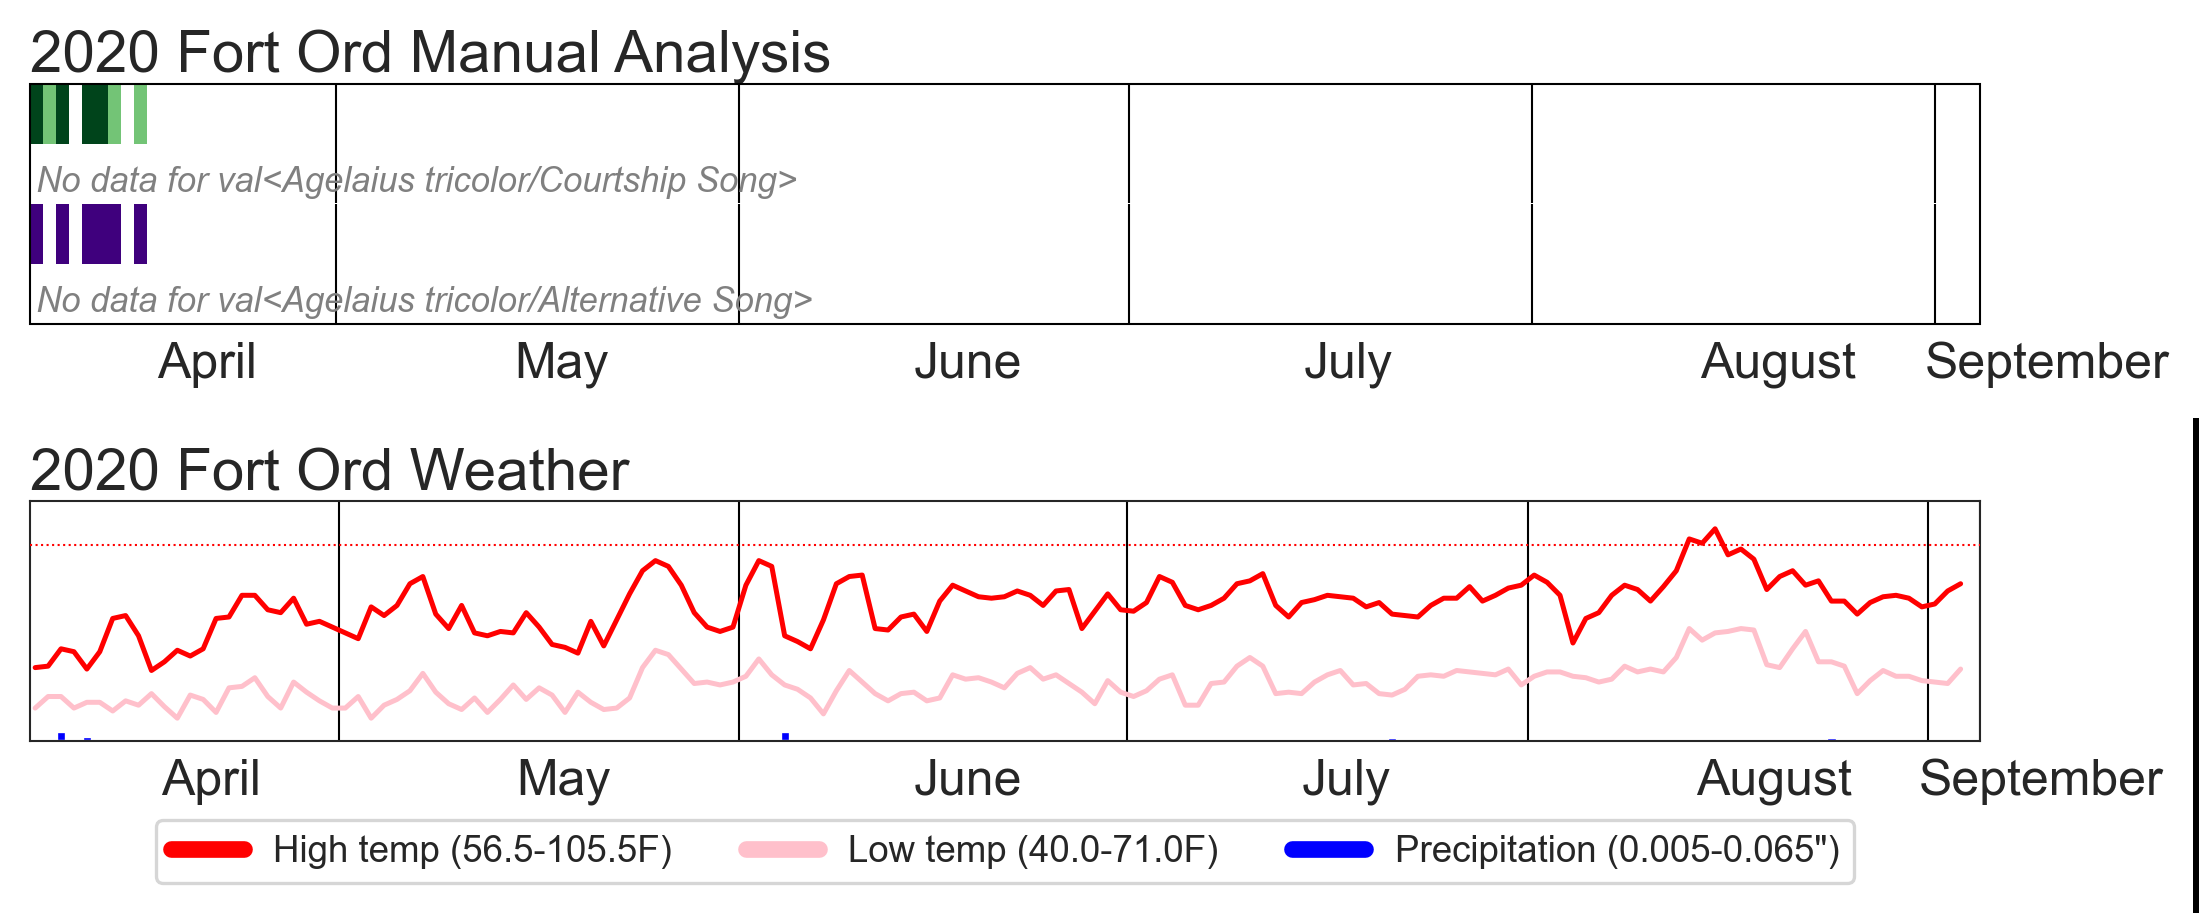
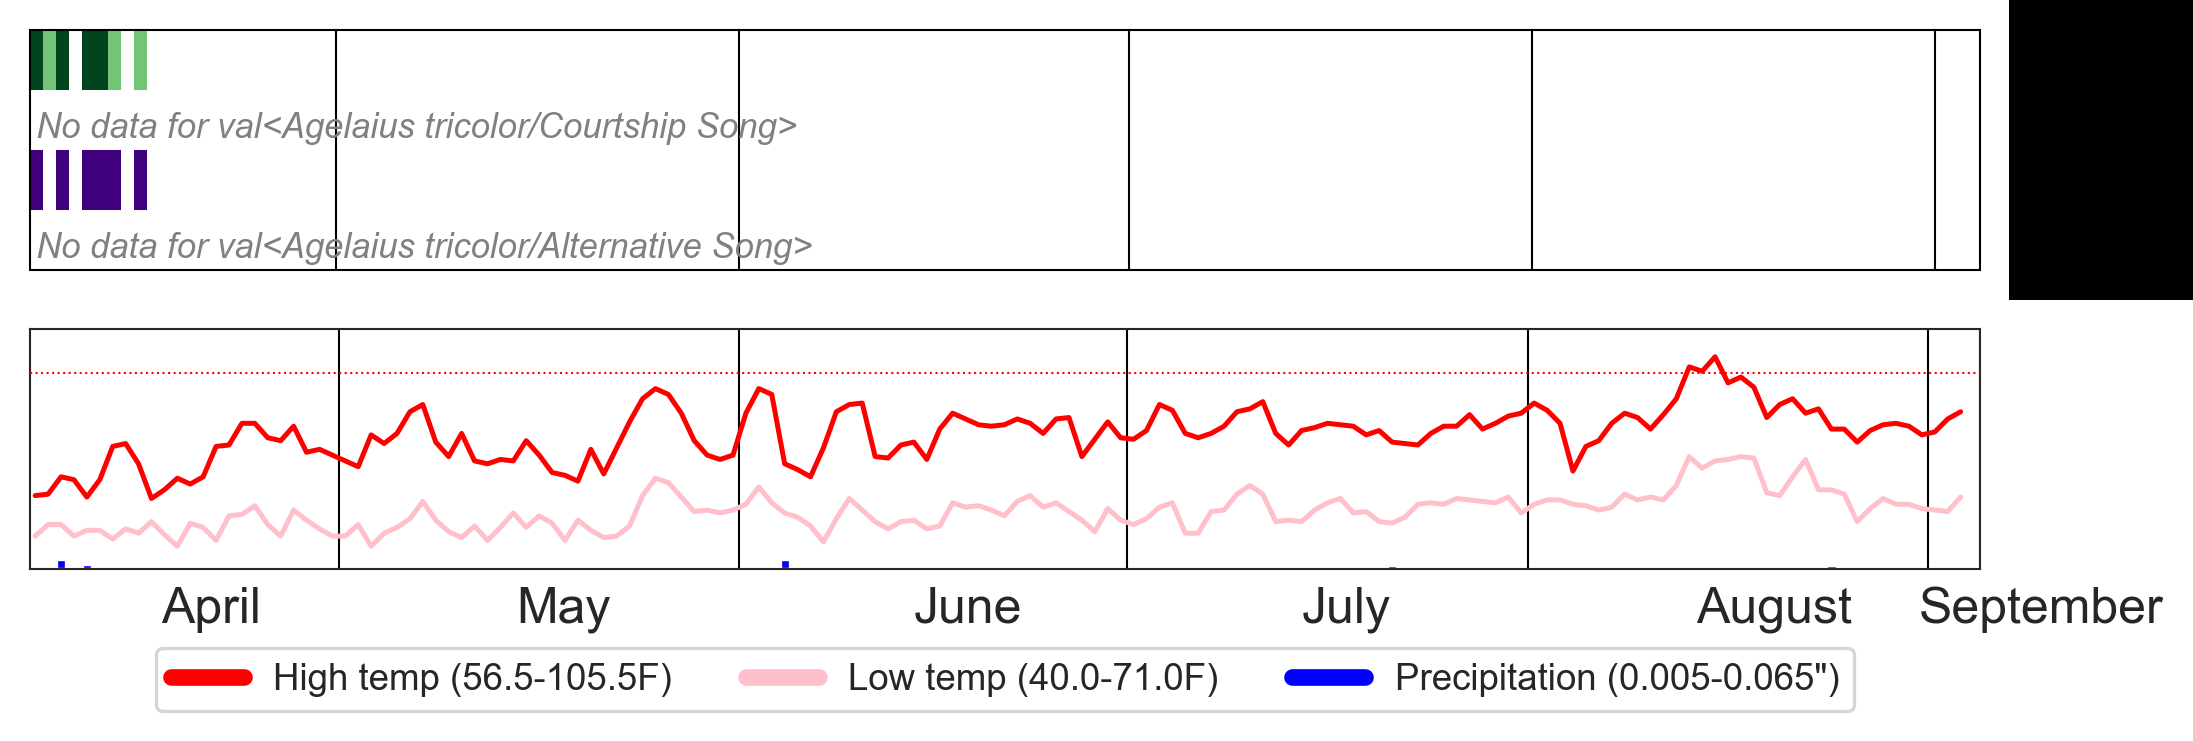
Added making composite image
Now have the ability to take all the graphs and generate a single PNG that contains all of them, minus headers and captions. Also re-ordered the graphing to align with what Wendy wants.

diff --git a/TRBL Summarizer/TRBLSummarizer.py b/TRBL Summarizer/TRBLSummarizer.py
@@ -13,7 +13,7 @@ import calendar
 from collections import Counter
 from itertools import tee
 import random
-from PIL import Image
+from PIL import Image, ImageDraw, ImageFont
 
 #to force garbage collection and reduce memory use
 import gc
@@ -146,11 +146,11 @@ weather_tmin = 'TMIN'
 weather_cols = [weather_prcp, weather_tmax, weather_tmin]
 
 graph_man = 'Manual Analysis'
-graph_miniman = 'Mini Manual Analysis'
+graph_miniman = 'Mini Man Analysis'
 graph_edge = 'Edge Analysis'
 graph_pm = 'Pattern Matching Analysis'
 graph_weather = 'Weather'
-graph_names = [graph_man, graph_miniman, graph_edge, graph_pm, graph_weather]
+graph_names = [graph_man, graph_miniman, graph_pm, graph_edge, graph_weather]
 
 #Files, paths, etc.
 data_foldername = 'Data/'
@@ -466,7 +466,7 @@ def make_pattern_match_pt(site_df: pd.DataFrame, type_name:str, date_range_dict:
 #  
 def get_site_to_analyze(site_list:list) -> str:
     #debug: to get a specific site, put the name of the site below and uncomment
-    #return('2021 Colusa NWR 27-1')
+    return('2019 Rush Ranch')
 
     #Calculate the list of years, sort it backwards so most recent is at the top
     year_list = []
@@ -586,10 +586,13 @@ def draw_axis_labels(month_lengths:dict, axs:np.ndarray, weather_graph = False):
     x = 0
     for month in month_lengths:
         center_pt = int(month_lengths[month]/2)
+
+        #TODO If the month_length is too short to fit the text, then don't draw the text or maybe center it differently
         #The line below shifts the label to the left a little bit to better center it on the month space. 
         center_pt -= len(month)/4
         mid = x + center_pt
-        axs[len(axs)-1].text(x=mid, y=y, s=month)
+
+        axs[len(axs)-1].text(x=mid, y=y, s=month, fontdict={'fontsize':'small'})
         x += month_lengths[month]
         if n<max:
             for ax in axs:
@@ -741,9 +744,13 @@ def create_graph(df: pd.DataFrame, row_names:list, cmap:dict, draw_connectors=Fa
     # return the final plotted heatmap
     return fig
 
+#Helper to ensure we make the filename consistently because this is done from multiple places
+def make_img_filename(site:str, graph_type:str) ->str:
+    return site + ' - ' + graph_type + '.png'
+
 # Save the graphic to a different folder. All file-related options are managed from here.
 def save_figure(site:str, graph_type:str, delete_only=False):
-    filename = site + ' - ' + graph_type + '.png'
+    filename = make_img_filename(site, graph_type)
     figure_path = figure_dir / filename
 
     #If the file exists then delete it, so that we make sure a new one is written
@@ -752,6 +759,17 @@ def save_figure(site:str, graph_type:str, delete_only=False):
     
     if not delete_only:
         plt.savefig(figure_path, dpi='figure', bbox_inches='tight')
+        
+        #Create a different version of the image that we'll use for the compilation
+        plt.suptitle('')
+        x=plt.gca()
+        for s in x.texts:
+            if not('data' in s.get_text()):
+                s.remove()
+        filename = site + ' - ' + graph_type + '_clean.png'
+        figure_path = figure_dir / filename
+        plt.savefig(figure_path, dpi='figure', bbox_inches='tight')
+        
 
     plt.close()
 
@@ -759,10 +777,11 @@ def save_figure(site:str, graph_type:str, delete_only=False):
 def concat_images(*images):
     """Generate composite of all supplied images."""
     # Get the widest width.
+    #TODO Why aren't the images all the same width?
     width = max(image.width for image in images)
     # Add up all the heights.
     height = sum(image.height for image in images)
-    composite = Image.new('RGB', (width, height))
+    composite = Image.new('RGB', (width, height), color='white')
     # Paste each image below the one before it.
     y = 0
     for image in images:
@@ -774,24 +793,45 @@ def concat_images(*images):
 # Load all the images that match the site name, combine them into a single composite,
 # and then save that out
 def combine_images(site):
-
     composite = site + ' - composite.png'
     composite_path = figure_dir / composite
 
     # Get the list of all files that match this site
-    site_figures = []
+    site_fig_dict = {}
     figures = os.scandir(figure_dir)
     if any(figures):
         # Get all the figures for this site
         for fig in figures:
-            if site in fig.name and composite not in fig.name:
-                site_figures.append(fig)
+            if site in fig.name and 'clean' in fig.name and composite not in fig.name:
+                for graph_type in graph_names:
+                    #TODO Need to add some error checking to not crash if somehow none of the graph names are present 
+                    print("figure:       " + fig.name)
+                    print("current type: " + graph_type)
+                    if graph_type in fig.name:
+                        print('Found')
+                        print(fig.path)
+                        site_fig_dict[graph_type] = fig.path
 
         # Now have the list of figures.  
-        if len(site_figures) > 0:
-            images = [Image.open(f.path) for f in site_figures]
+        if len(site_fig_dict) > 0:
+            #Building the list of the figures but it needs to be in a specific order so that the composite looks right
+            site_fig_list = []
+            for g in graph_names:
+                if g in site_fig_dict:
+                    site_fig_list.append(site_fig_dict[g])
+            images = [Image.open(f) for f in site_fig_list]
             composite = concat_images(*images)
-            composite.save(composite_path)
+
+            #Make a new image that's a little bigger so we can add the site name at the top
+            width, height = composite.size
+            caption_height = 125      
+            new_height = height + caption_height #for the string
+            final = Image.new(composite.mode, (width, new_height), color='white')
+            draw = ImageDraw.Draw(final)
+            font = ImageFont.truetype("arialbd.ttf", size=72)
+            draw.text((25,25), site, fill='black', font=font)
+            final.paste(composite, box=(0,caption_height)) 
+            final.save(composite_path)
 
 
 def output_graph(site:str, graph_type:str, save_files:bool, make_all_graphs:bool, data_to_graph=True):
@@ -800,9 +840,13 @@ def output_graph(site:str, graph_type:str, save_files:bool, make_all_graphs:bool
             pass
         else:
             st.write(graph)
-
+            
         if make_all_graphs or save_files:
-            graph_type = graph_type.replace(' ', '_')
+            #TODO if we want to put _ in the names then a) it neds to happen elsewhere, as this is 
+            #just putting them into the graph type and not the site name, and b) this breaks the
+            #code in the image compilation section because the filename it has (without underscore)
+            #doesn't match ones with the underscore
+            #graph_type = graph_type.replace(' ', '_')
             save_figure(site, graph_type)
     else:
         #No data, so show a message instead. 
@@ -1169,11 +1213,8 @@ site_list = get_target_sites()
 df = clean_data(df_original, site_list[site_str])
 
 # Nuke the original data, hopefully this frees up memory
-#TODO If Wendy wants to see all errors in the data, then leave it this way because we need the entire 
-#file to do that. However, if she only wants errors for the current site, then we can put the next
-#two lines back.
-#del df_original
-#gc.collect()
+del df_original
+gc.collect()
 
 #TODO Make this a UI option
 make_all_graphs = False
@@ -1293,16 +1334,24 @@ for site in target_sites:
                         row_names = song_cols, 
                         cmap = cmap, 
                         title = (site + ' ' if save_files else '') + graph_man)
-    output_graph(site, 'Manual Analysis', save_files, make_all_graphs, len(df_manual))
+    output_graph(site, graph_man, save_files, make_all_graphs, len(df_manual))
 
-    # Computer Assisted Analysis
+    # MiniManual Assisted Analysis
     graph = create_graph(df = pt_mini_manual, 
                         row_names = song_cols, 
                         cmap = cmap, 
                         raw_data = df_site,
                         draw_vert_rects = True,
                         title = (site + ' ' if save_files else '') + graph_miniman)
-    output_graph(site, 'Mini Manual', save_files, make_all_graphs, len(df_mini_manual))
+    output_graph(site, graph_miniman, save_files, make_all_graphs, len(df_mini_manual))
+
+    # Pattern Matching Analysis
+    cmap_pm = {'Male':'Greens', 'Female':'Purples', 'Young Nestling':'Blues', 'Mid Nestling':'Blues', 'Old Nestling':'Blues'}
+    graph = create_graph(df = pt_pm, 
+                        row_names = pm_file_types, 
+                        cmap = cmap_pm, 
+                        title = (site + ' ' if save_files else '') + graph_pm)
+    output_graph(site, graph_pm, save_files, make_all_graphs, pm_data_empty)
 
     # Edge Analysis
     cmap_edge = {c:'Oranges' for c in edge_c_cols} | {n:'Blues' for n in edge_n_cols} # the |" is used to merge dicts
@@ -1312,23 +1361,16 @@ for site in target_sites:
                         raw_data = df_site,
                         draw_horiz_rects = True,
                         title = (site + ' ' if save_files else '') + graph_edge)
-    output_graph(site, 'Edge Analysis', save_files, make_all_graphs, edge_data_empty)
-
-    # Pattern Matching Analysis
-    cmap_pm = {'Male':'Greens', 'Female':'Purples', 'Young Nestling':'Blues', 'Mid Nestling':'Blues', 'Old Nestling':'Blues'}
-    graph = create_graph(df = pt_pm, 
-                        row_names = pm_file_types, 
-                        cmap = cmap_pm, 
-                        title = (site + ' ' if save_files else '') + graph_pm)
-    output_graph(site, 'Pattern Matching Analysis', save_files, make_all_graphs, pm_data_empty)
+    output_graph(site, graph_edge, save_files, make_all_graphs, edge_data_empty)
 
     #Show weather, as needed            
     if st.sidebar.checkbox('Show station weather', True):
         # Load and parse weather data
         weather_by_type = get_weather_data(site, date_range_dict)
         graph = create_weather_graph(weather_by_type, site)
-        output_graph(site, "Weather Data", save_files, make_all_graphs)
+        output_graph(site, graph_weather, save_files, make_all_graphs)
     
+    #TODO remove the "True" below when we're done debugging
     if True or make_all_graphs or save_files:
         combine_images(site)
 
